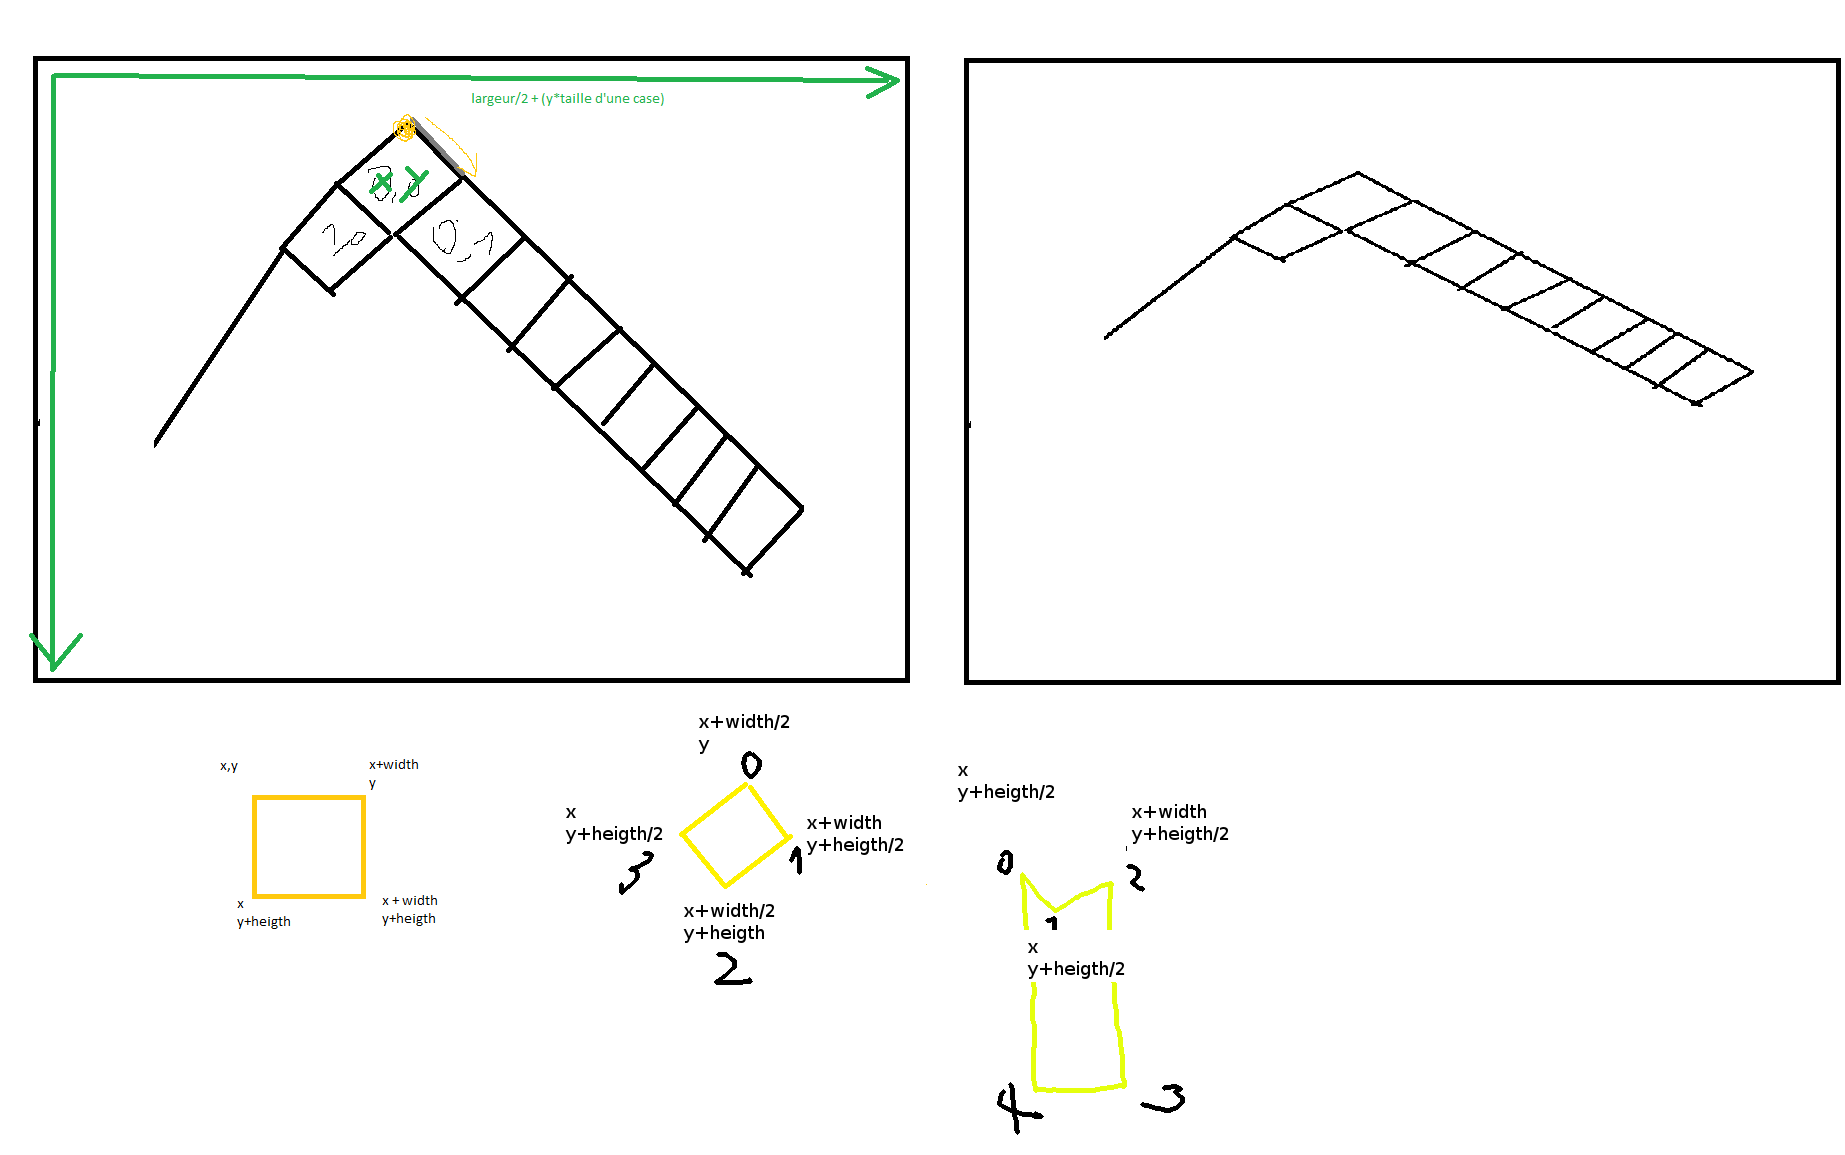
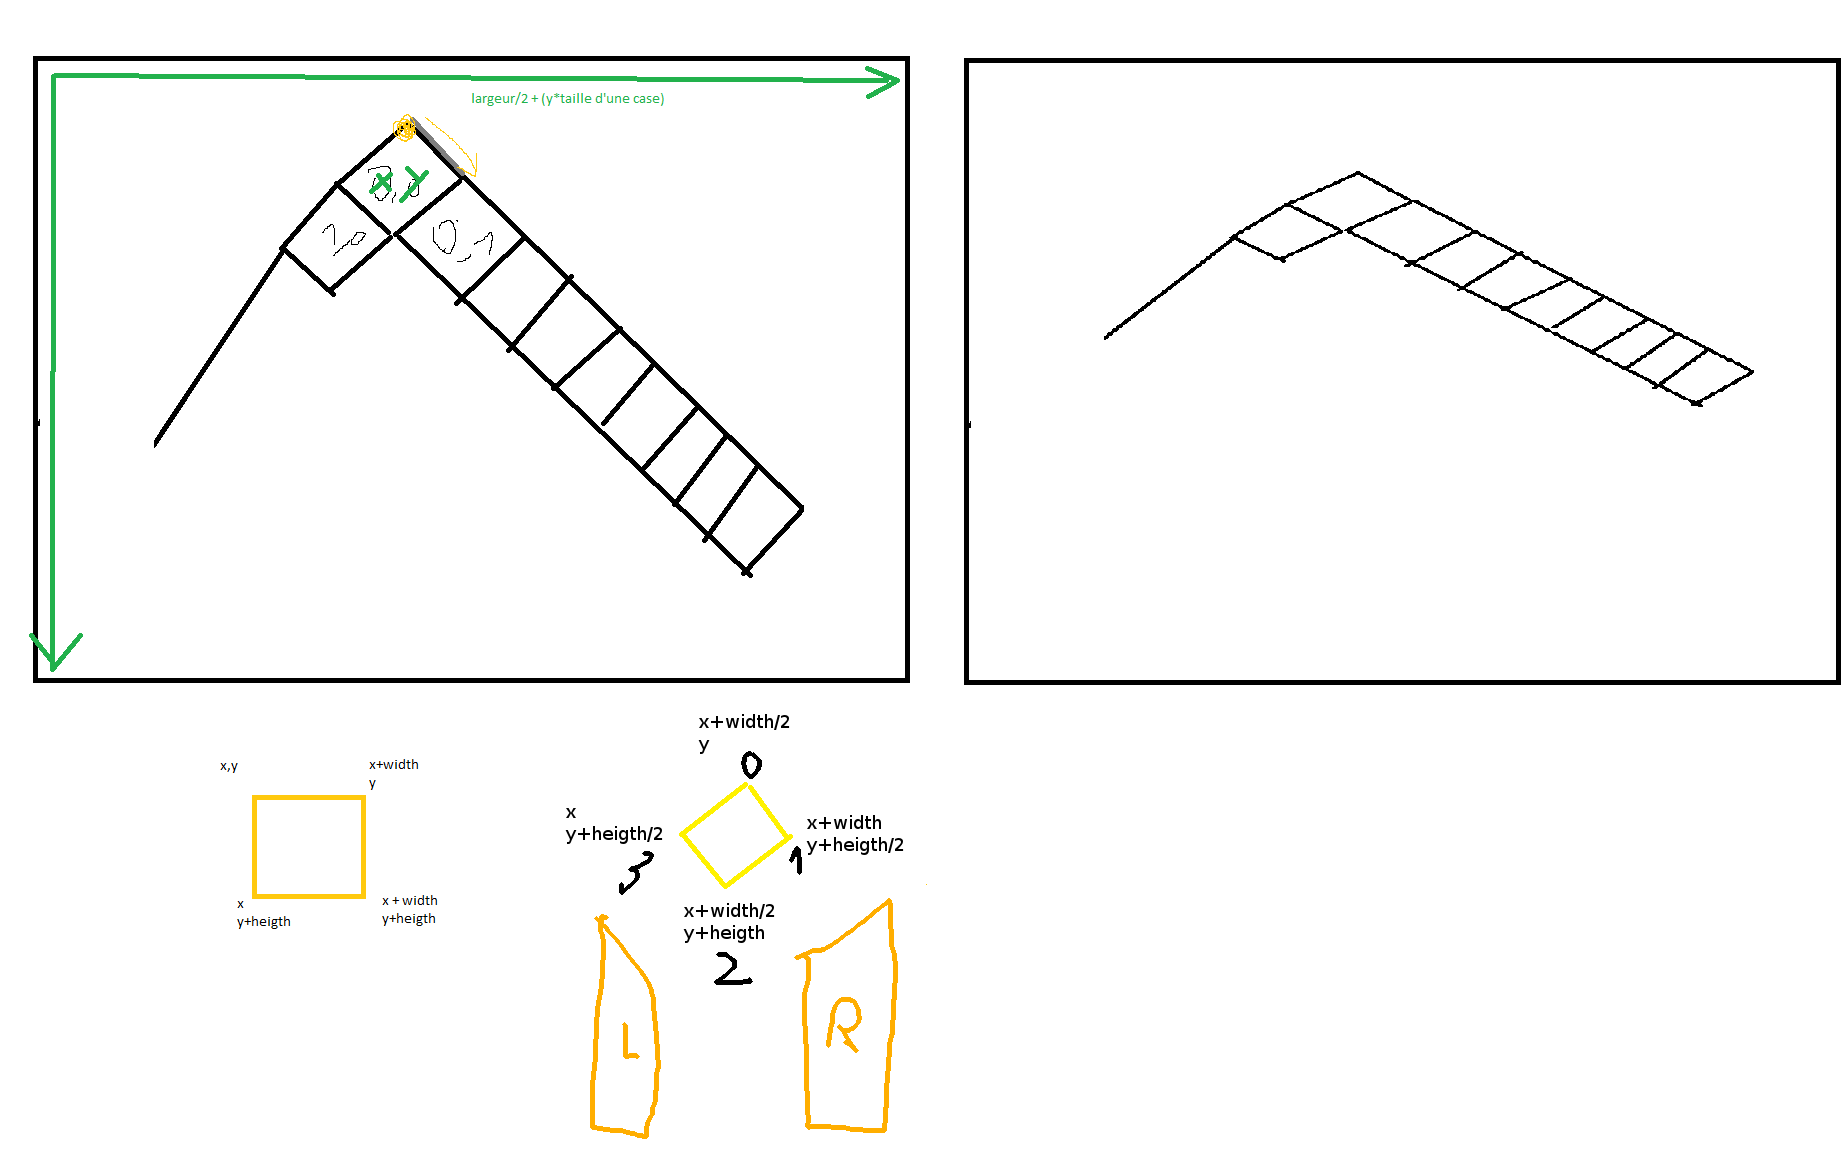
add wheel zoom

diff --git a/CrazyMarble/Game.cpp b/CrazyMarble/Game.cpp
@@ -5,20 +5,18 @@
 #include <iostream>
 #include "Game.hpp"
 
-Game::Game(unsigned int x, unsigned int y):largeur(1000),hauteur(800),board(Board(x,y)){
+Game::Game(unsigned int x, unsigned int y):largeur(1920),hauteur(1080),board(Board(x,y)), zoom(0.5){
 
     windows.create(VideoMode(largeur,hauteur), "Crazy Marbles");
     windows.setPosition(Vector2i(250,50));
-    windows.setFramerateLimit(30);
+    windows.setFramerateLimit(60);
+    //windows.setMouseCursorVisible(false);
 
     circle.setFillColor(Color::Blue);
     circle.setRadius(5);
-    //circle.setPosition(Vector2f(largeur / 2 - (circle.getRadius() / 2), 100));
     circle.setPosition(Vector2f(365, 60));
 
-    speed = 5;
-
-
+    speed = 2;
 }
 
 
@@ -29,8 +27,9 @@ void Game::updateView() {
     pos.x = circle.getPosition().x + (margeSize / 2) - (largeur / 2);
     pos.y = circle.getPosition().y + (margeSize / 2) - (hauteur / 2);
     view.reset(FloatRect(pos.x, pos.y, largeur, hauteur));
-    view.zoom(0.5);
+    view.zoom(this->zoom);
     windows.setView(view);
+
 }
 
 
@@ -39,7 +38,6 @@ void Game::updateGameBoard() {
 
     board.drawBoard(&windows);
 
-    //windows.draw(spriteTile);
     windows.draw(circle);
     windows.display();
     windows.clear();
@@ -89,9 +87,9 @@ void Game::gameLoop() {
     while(windows.isOpen()){
         Event event;
         while(windows.pollEvent(event)){
-            if(event.type == Event::Closed){
-                windows.close();
-            }
+            if(event.type == Event::Closed) windows.close();
+
+            if (event.type == sf::Event::MouseWheelMoved) zoom += event.mouseWheel.delta * 0.1;
         }
         eventChecker();
 

diff --git a/CrazyMarble/Utils/TextureLoader.cpp b/CrazyMarble/Utils/TextureLoader.cpp
@@ -9,7 +9,7 @@ Texture TextureLoader::tileWall;
 
 void TextureLoader::LoadingTextures() {
 
-    if(!tile.loadFromFile("data/tile.png")){
+    if(!tile.loadFromFile("data/tile2.png")){
         std::cout << "Error loading file" << std::endl;
     }
     if(!tileWall.loadFromFile("data/wall.png")){

diff --git a/CrazyMarble/Game.hpp b/CrazyMarble/Game.hpp
@@ -20,6 +20,8 @@ private:
     const unsigned int hauteur;
     int speed;
 
+    float zoom;
+
     void updateGameBoard();
     void eventChecker();
     void checkPos();
